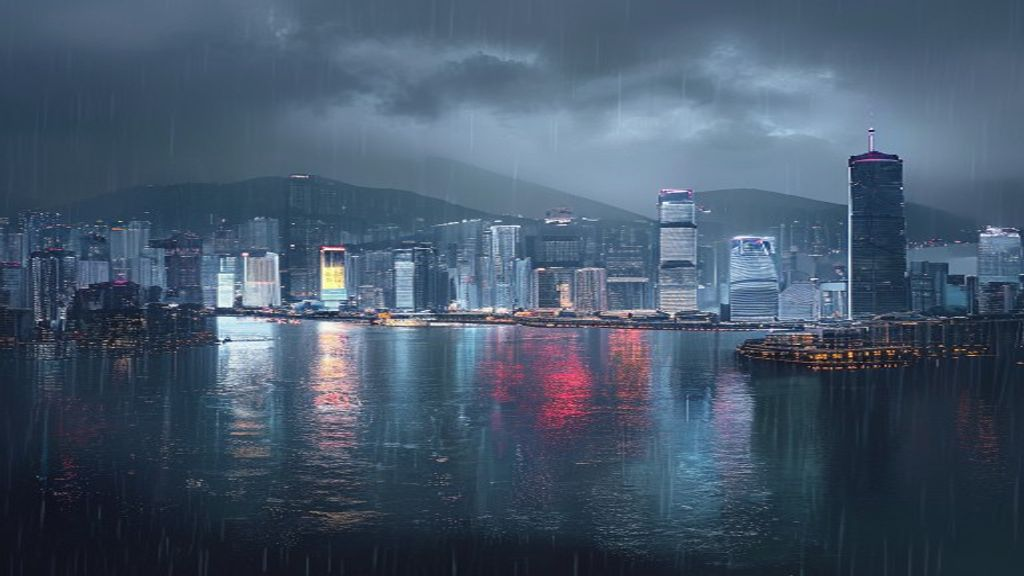
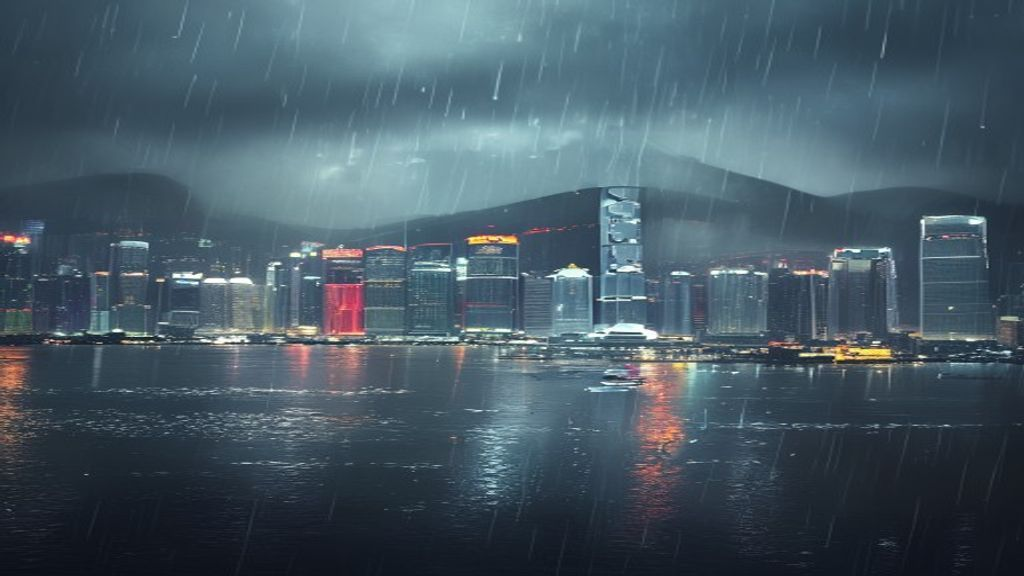
每日自動更新：20260701 - 天氣+新聞+專欄+首頁

diff --git a/reports/sono_20260701.html b/reports/sono_20260701.html
@@ -421,7 +421,7 @@
 </div>
 </div>
 
-<div style="display:flex;justify-content:center;align-items:center;gap:8px;margin:30px 0 10px;"><a href="sono_20260630.html" style="color:#a29bfe;text-decoration:none;font-size:0.78em;padding:4px 6px;display:inline-flex;align-items:center;gap:2px;">◀ 上一日</a><a href="../" style="background:linear-gradient(135deg,#ff6b9d,#a29bfe);color:#fff;text-decoration:none;font-size:1.1em;padding:5px 28px;border-radius:22px;font-weight:700;letter-spacing:2px;line-height:1.2;">首頁</a><span style="color:#555;text-decoration:none;font-size:0.78em;padding:4px 6px;display:inline-flex;align-items:center;gap:2px;">下一日 ▶</span></div> style="color:#ff6b9d;text-decoration:none;font-size:0.78em;padding:4px 6px;display:inline-flex;align-items:center;gap:2px;">◀ 上一日</a><a href="../" style="background:linear-gradient(135deg,#ff6b9d,#a29bfe);color:#fff;text-decoration:none;font-size:1.1em;padding:5px 28px;border-radius:22px;font-weight:700;letter-spacing:2px;line-height:1.2;">首頁</a><a href="sono_20260702.html" style="color:#a29bfe;text-decoration:none;font-size:0.78em;padding:4px 6px;display:inline-flex;align-items:center;gap:2px;">下一日 ▶</a></div>
+<div style="display:flex;justify-content:center;align-items:center;gap:8px;margin:30px 0 10px;"><a href="sono_20260630.html" style="color:#ff6b9d;text-decoration:none;font-size:0.78em;padding:4px 6px;display:inline-flex;align-items:center;gap:2px;">◀ 上一日</a><a href="../" style="background:linear-gradient(135deg,#ff6b9d,#a29bfe);color:#fff;text-decoration:none;font-size:1.1em;padding:5px 28px;border-radius:22px;font-weight:700;letter-spacing:2px;line-height:1.2;">首頁</a><span style="color:#555;text-decoration:none;font-size:0.78em;padding:4px 6px;display:inline-flex;align-items:center;gap:2px;">下一日 ▶</span></div>
 
 
 